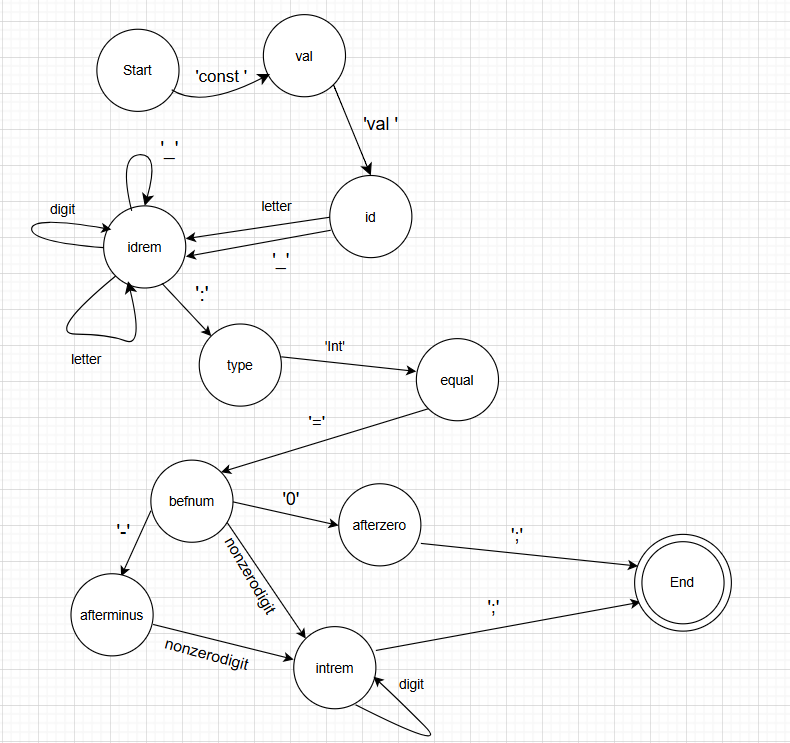
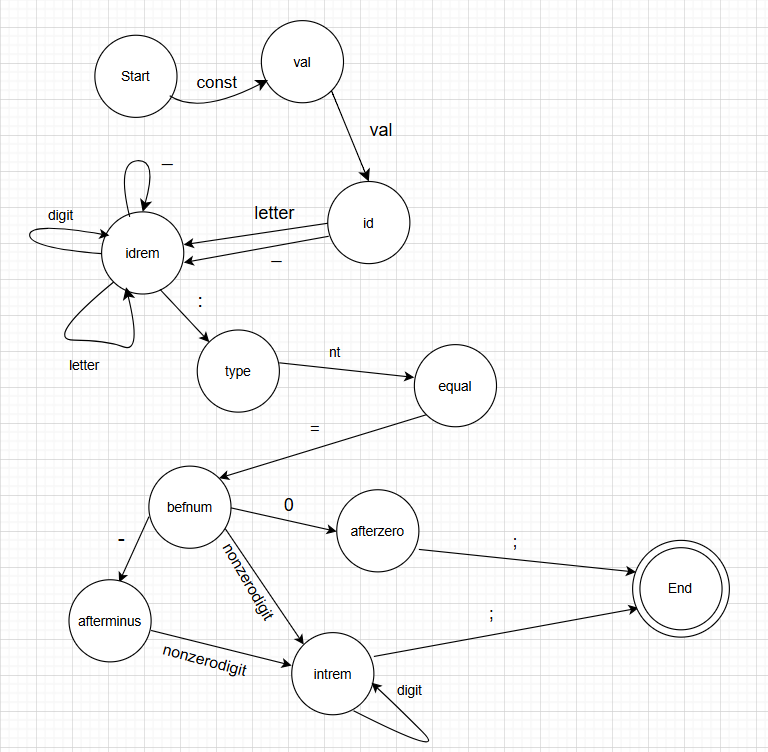
Corrected Parser. updated Readme images.

diff --git a/compiles_lab_1/Core/Parser.cs b/compiles_lab_1/Core/Parser.cs
@@ -193,10 +193,15 @@ namespace compiles_lab_1.Core
                     phase = (phase == ParsePhase.Done) ? ParsePhase.ExpectStart : (ParsePhase)((int)phase + 1);
                     continue;
                 }
+   
+         
 
                 int startIndex = i;
                 int syncIndex = -1;
                 ParsePhase syncPhase = phase;
+ 
+                bool hasFutureConst = tokens.Skip(i + 1).Any(x => x.Code == LexemeCode.KeywordConst);
+                bool hasFutureVal = tokens.Skip(i + 1).Any(x => x.Code == LexemeCode.KeywordVal);
 
                 for (int j = i; j < tokens.Count; j++)
                 {
@@ -226,6 +231,18 @@ namespace compiles_lab_1.Core
                         if (ph == ParsePhase.ExpectNumber)
                             continue;
 
+                        if (phase == ParsePhase.ExpectStart &&
+                                (hasFutureConst || hasFutureVal) &&
+                                ph == ParsePhase.ExpectId)
+                            continue;
+
+
+                        if (phase == ParsePhase.ExpectVal &&
+                            hasFutureVal &&
+                            ph == ParsePhase.ExpectId)
+                            continue;
+
+
                         if (CheckMatch(tokens, j, ph) > 0)
                         {
                             syncIndex = j;
@@ -235,6 +252,42 @@ namespace compiles_lab_1.Core
                     }
 
                     if (syncIndex != -1) break;
+                }
+
+                if (phase != ParsePhase.ExpectId &&
+            i + 1 < tokens.Count &&
+            CheckMatch(tokens, i + 1, phase) > 0)
+                {
+                    int line = tokens[i].Line;
+                    var first = tokens[i];
+                    string fragment = first.Text;
+
+                    int k = i + 1;
+                    while (k < tokens.Count &&
+                      CheckMatch(tokens, k, phase) == 0 &&
+                      tokens[k].Code != LexemeCode.Semicolon &&
+                      !(phase == ParsePhase.ExpectStart && tokens[k].Code == LexemeCode.KeywordConst) &&
+                      !(phase == ParsePhase.ExpectVal && tokens[k].Code == LexemeCode.KeywordVal))
+                    {
+                        fragment += tokens[k].Text;
+                        k++;
+                    }
+
+
+                    result.Errors.Add(new ParseError
+                    {
+                        Fragment = fragment,
+                        Message = GetExpectedMessage(phase),
+                        Line = line,
+                        StartColumn = first.StartColumn,
+                        EndColumn = tokens[k - 1].EndColumn
+                    });
+
+                    int consumedExpected = CheckMatch(tokens, i + 1, phase);
+                    i = i + 1 + consumedExpected;
+                    phase = (phase == ParsePhase.Done) ? ParsePhase.ExpectStart : (ParsePhase)((int)phase + 1);
+                    continue;
+
                 }
 
                 string errorMsg = GetExpectedMessage(phase);
